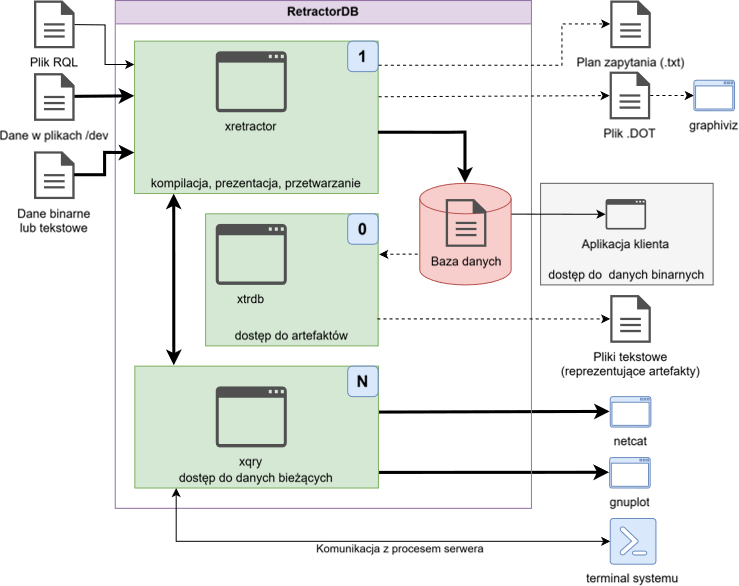
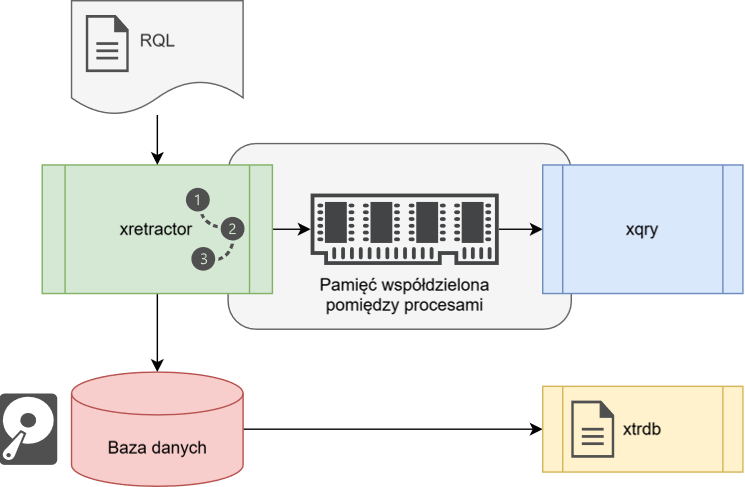
GITBOOK-3: No subject

diff --git a/analiza-artefaktow.md b/analiza-artefaktow.md
@@ -1,0 +1,108 @@
+# Analiza artefaktów
+
+Analizując szerzej potencjalne ścieżki danych na Rys. 7 ostatnią nieopisaną ścieżką jest ścieżka w której bierze udział narzędzie xtrdb.
+
+W trakcie tworzenia systemu potrzebowałem narzędzia umożliwiającego dostęp do artefaktów w celu przeprowadzenia testów integracyjnych. W celu weryfikacji poprawności musiałem porównać wyniki przetwarzania na różnych etapach.
+
+<figure><img src=".gitbook/assets/image.png" alt=""><figcaption></figcaption></figure>
+
+<p align="center">Rys. 13. Przepływ danych w analizie artefaktów</p>
+
+W celu przedstawienia procesu analizy artefaktów konieczne jest uwzględnienie całego ciągu przetwarzania. Użyjemy tego samego zapytania co poprzednio. Uruchomimy jednak nasz proces przetwarzania danych w trochę inny sposób.
+
+```
+$ xretractor -m 10 query.rql
+```
+
+Tak wywołany proces przetwarzania zapytań zakończy swoją pracę po 10 sekundach. Po zakończeniu działania i przejrzeniu katalogu w którym realizowaliśmy zapytanie powinniśmy zobaczyć następujące pliki:
+
+```
+$ ls -al
+total 32
+drwxr-xr-x  2 michal michal 4096 Oct  4 18:01 .
+drwxr-xr-x 10 michal michal 4096 Oct  4 17:59 ..
+-rw-r--r--  1 michal michal   51 Oct  4 18:01 core0.desc
+-rw-r--r--  1 michal michal   43 Oct  4 18:01 core1.desc
+-rw-r--r--  1 michal michal   27 Oct  4 17:59 datafile1.txt
+-rw-r--r--  1 michal michal  180 Oct  4 18:00 query.rql
+-rw-r--r--  1 michal michal   72 Oct  4 18:01 str1
+-rw-r--r--  1 michal michal   34 Oct  4 18:01 str1.desc
+```
+
+Jak widać powstały trzy pliki .desc i jeden plik z artefaktami. Jeśli zajrzymy do pliku str1 to zobaczymy bardzo skromną zawartość:
+
+```
+$ hexdump str1
+0000000 0014 0000 0015 0000 0015 0000 0016 0000
+0000010 0016 0000 0017 0000 0017 0000 0018 0000
+0000020 0018 0000 0019 0000 0019 0000 001a 0000
+0000030 001a 0000 001b 0000 001b 0000 001c 0000
+0000040 001c 0000 001d 0000
+0000048
+```
+
+Wraz z plikiem artefaktu powstają pliki metadanych. Ich zawartość informuje o strukturze pliku.
+
+```
+$ cat str1.desc
+{       INTEGER str1_0
+        INTEGER str1_1
+}
+```
+
+O wiele ciekawsze są opisy plików efemerydów. Pliki opisu danych efemerycznych wskazują na pliki w systemie Linux.
+
+```
+$ cat core0.desc
+{       INTEGER a
+        REF "datafile1.txt"
+        TYPE TEXTSOURCE
+}
+$ cat core1.desc
+{       BYTE a
+        REF "/dev/urandom"
+        TYPE DEVICE
+}
+```
+
+Pliki opisu metadanych są tworzone automatycznie w momencie zarejestrowania w systemie RetractorDB obiektu. Należy pamiętać aby usunąć te deskryptory w przypadku zmodyfikowania pliku query.rql
+
+Po uruchomieniu programu xtrdb w terminalu narzędzie wyświetli znak zachęty w postaci kropki. Można od razu rozpocząć komunikację z tym narzędziem. Przykład sesji:
+
+```
+$ xtrdb
+.open str1
+ok
+.desc
+{       INTEGER str1_0
+        INTEGER str1_1
+}
+.read 0
+ok
+.print
+{       str1_0:20
+        str1_1:21
+}
+.quit
+```
+
+Praca z tym narzędziem przypomina pracę z klasyczną, starą bazą danych dbase. Nie mamy tu jednak maszyny stanów, pętli czy warunków. Tylko odczyt i modyfikacje plików binarnych opisanych metadanymi.
+
+Głównym celem tego narzędzia było wsparcie przy tworzeniu skryptów testowych. RetractorDB jest deterministyczny. W systemie nie występuje zjawisko wyścigu – dane, które trafią na wejście – zawsze powinny dać te same wyniki na wyjściu. Chyba że zmieszamy wyniki z danymi przypadkowymi jak w przedstawionym przykładzie.
+
+Bardzo użyteczną funkcją w tym narzędziu jest funkcja list oraz rlist. Listująca początkowe elementy pliku lub końcowe elementy pliku –uwzględniając strukturę opisaną w metadanych.
+
+```
+.list 4
+{ str1_0:20 str1_1:21 }
+{ str1_0:21 str1_1:22 }
+{ str1_0:22 str1_1:23 }
+{ str1_0:23 str1_1:24 }
+.rlist 4
+{ str1_0:28 str1_1:29 }
+{ str1_0:27 str1_1:28 }
+{ str1_0:26 str1_1:27 }
+{ str1_0:25 str1_1:26 }
+```
+
+Zachęcam do eksperymentów i przejrzenia źródeł tego narzędzia. Jest to jeden z mniej skomplikowanych a bardzo użytecznych elementów systemu RetractorDB.

diff --git a/architektura-systemu-przetwarzania-danych/przeplyw-danych-i-sterowania.md b/architektura-systemu-przetwarzania-danych/przeplyw-danych-i-sterowania.md
@@ -8,9 +8,8 @@ Aby móc sterować procesem xretractor po wystartowaniu używamy procesu xqry. Z
 
 Reszta strzałek prezentuje przepływy danych zależne od prowadzonego z użyciem RetractorDB procesu. Strzałki przerywane są typowo przeznaczone do celów diagnostycznych.
 
-Każdy z procesów na schemacie został oznaczony dodatkowo  liczbą utrzymywanych ciągłych procesów w systemie. Oznaczenie „1” przy procesie xretractor oznacza że ten program będzie pilnował aby tylko jedna instancja tego procesu funkcjonowała w systemie. Próba uruchomienia kolejnej zakończy się błędem i komunikatem przy uruchomieniu. Program xtrdb nie utrzymuje żadnych ciągłych i nieskończonych procesów. Czyta dane, przetwarza, zwraca wyniki i kończy pracę. Oferuje też opcję pracy w trybie interaktywnym. Proces xqry oznaczony został jako „N”. W ten sposób chciałem wyrazić że procesów xqry można wywoływać więcej niż jeden. Jest to typowy scenariusz pracy z systemem RetractorDB. Klientów komunikujących się z procesorem planów realizacji zapytań z definicji występuje kilka.
+Każdy z procesów na schemacie został oznaczony dodatkowo liczbą utrzymywanych ciągłych procesów w systemie. Oznaczenie „1” przy procesie xretractor oznacza że ten program będzie pilnował aby tylko jedna instancja tego procesu funkcjonowała w systemie. Próba uruchomienia kolejnej zakończy się błędem i komunikatem przy uruchomieniu. Program xtrdb nie utrzymuje żadnych ciągłych i nieskończonych procesów. Czyta dane, przetwarza, zwraca wyniki i kończy pracę. Oferuje też opcję pracy w trybie interaktywnym. Proces xqry oznaczony został jako „N”. W ten sposób chciałem wyrazić że procesów xqry można wywoływać więcej niż jeden. Jest to typowy scenariusz pracy z systemem RetractorDB. Klientów komunikujących się z procesorem planów realizacji zapytań z definicji występuje kilka.
 
-<figure><img src="../.gitbook/assets/image (4).png" alt=""><figcaption></figcaption></figure>
+<figure><img src="../.gitbook/assets/image (4) (1).png" alt=""><figcaption></figcaption></figure>
 
 <p align="center">Rys. 7. Przepływ danych i sterowania</p>
-

diff --git a/architektura-systemu-przetwarzania-danych/schemat-architektury.md b/architektura-systemu-przetwarzania-danych/schemat-architektury.md
@@ -2,13 +2,13 @@
 
 Poniżej przedstawiona jest na Rys. 6 schematycznie architektura systemu RetractorDB. Uwzględniono wszystkie istniejące aktualnie komponenty. Obszary ujęte w prostokątach z nagłówkami wypełnionymi poleceniami systemowymi odpowiadają istniejącym komponentom. Obszar zapisu artefaktów to symboliczna reprezentacja systemu plików.
 
-<figure><img src="../.gitbook/assets/image.png" alt=""><figcaption></figcaption></figure>
+<figure><img src="../.gitbook/assets/image (4).png" alt=""><figcaption></figcaption></figure>
 
 <p align="center">Rys. 6 Schemat przepływu danych pomiędzy procesami RetractorDB</p>
 
 Na Rys. 6 widzimy procesy realizowane przez programy xretractror, xtrdb oraz xqry. Na rysunku schematycznie przedstawiono sposób komunikacji pomiędzy procesami w systemie RetractorDB. Rysunek pokazuje części wspólne opracowanych narzędzi.
 
-Proces xretractor komunikuje się z procesami xqry poprzez obszar pamięci współdzielonej. W tej pamięci dla każdego procesu xqry tworzona jest przez xretractor kolejka danych. Dane są odbierane na bieżąco przez procesy xqry. Zadaniem procesów xqry jest wysyłka danych dalej do innych systemów lub procesów. Jeśli proces  xqry ginie lub jest kończony xretraktor zarządzające obszarem wspólnym zwalnia obszar dedykowany we wspólnym obszarze.
+Proces xretractor komunikuje się z procesami xqry poprzez obszar pamięci współdzielonej. W tej pamięci dla każdego procesu xqry tworzona jest przez xretractor kolejka danych. Dane są odbierane na bieżąco przez procesy xqry. Zadaniem procesów xqry jest wysyłka danych dalej do innych systemów lub procesów. Jeśli proces xqry ginie lub jest kończony xretraktor zarządzające obszarem wspólnym zwalnia obszar dedykowany we wspólnym obszarze.
 
 Oprócz kierowania danych do wysyłki poprzez pamięć współdzieloną, system RetractorDB zapisuje dane do tzw. Obszaru zapisu artefaktów. Aktualnie jest to katalog do którego zapisywane są na bieżąco efekty procesu przetwarzania strumieni danych w oparciu o plany realizacji zapytań realizowane w systemie RetractorDB.
 

diff --git a/SUMMARY.md b/SUMMARY.md
@@ -27,3 +27,4 @@
   * [Artefakty, Substraty, Efemerydy](architektura-systemu-przetwarzania-danych/artefakty-substraty-efemerydy.md)
   * [Kompilacja i budowa planu](architektura-systemu-przetwarzania-danych/kompilacja-i-budowa-planu.md)
   * [Przetwarzanie i dystrybucja danych](architektura-systemu-przetwarzania-danych/przetwarzanie-i-dystrybucja-danych.md)
+* [Analiza artefaktów](analiza-artefaktow.md)
